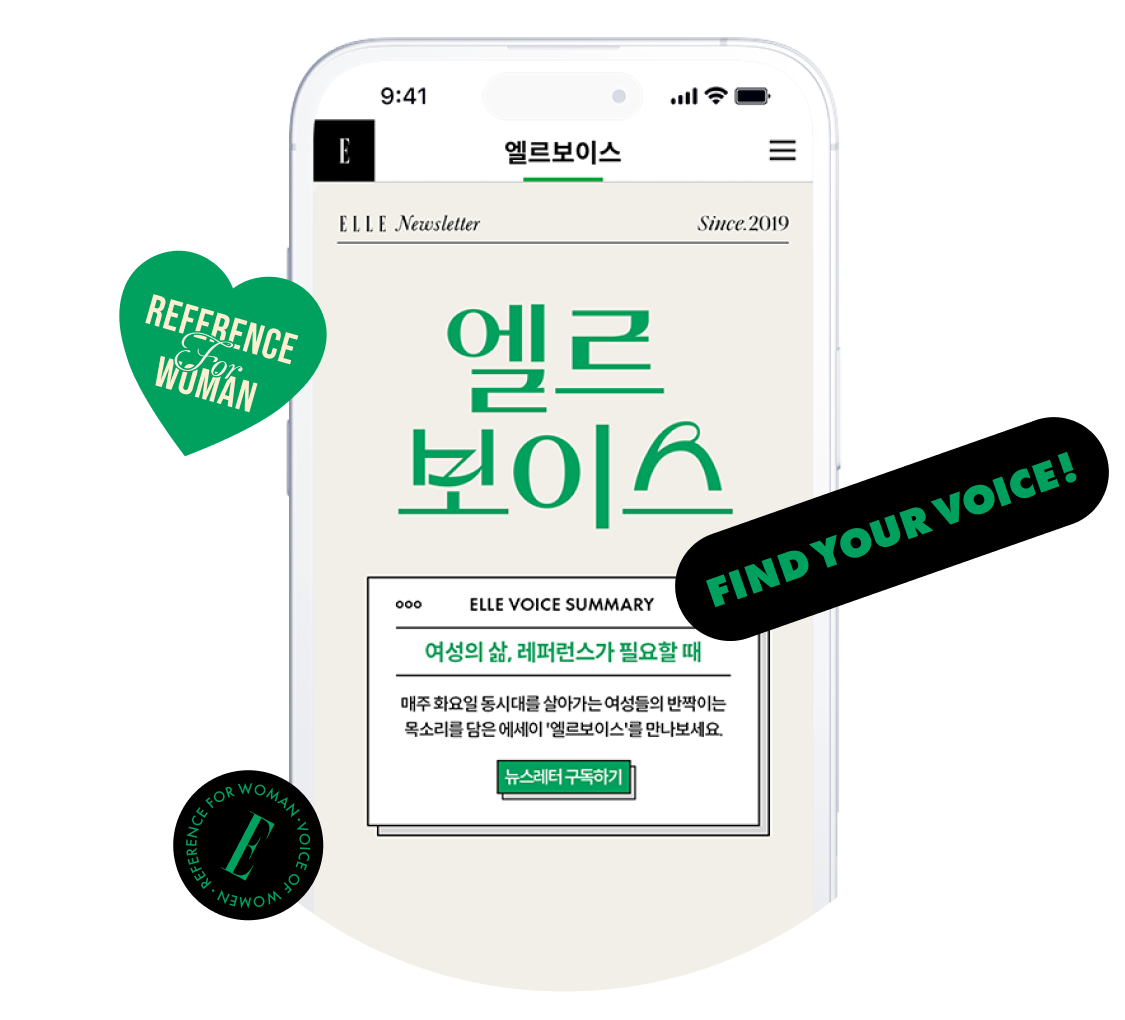
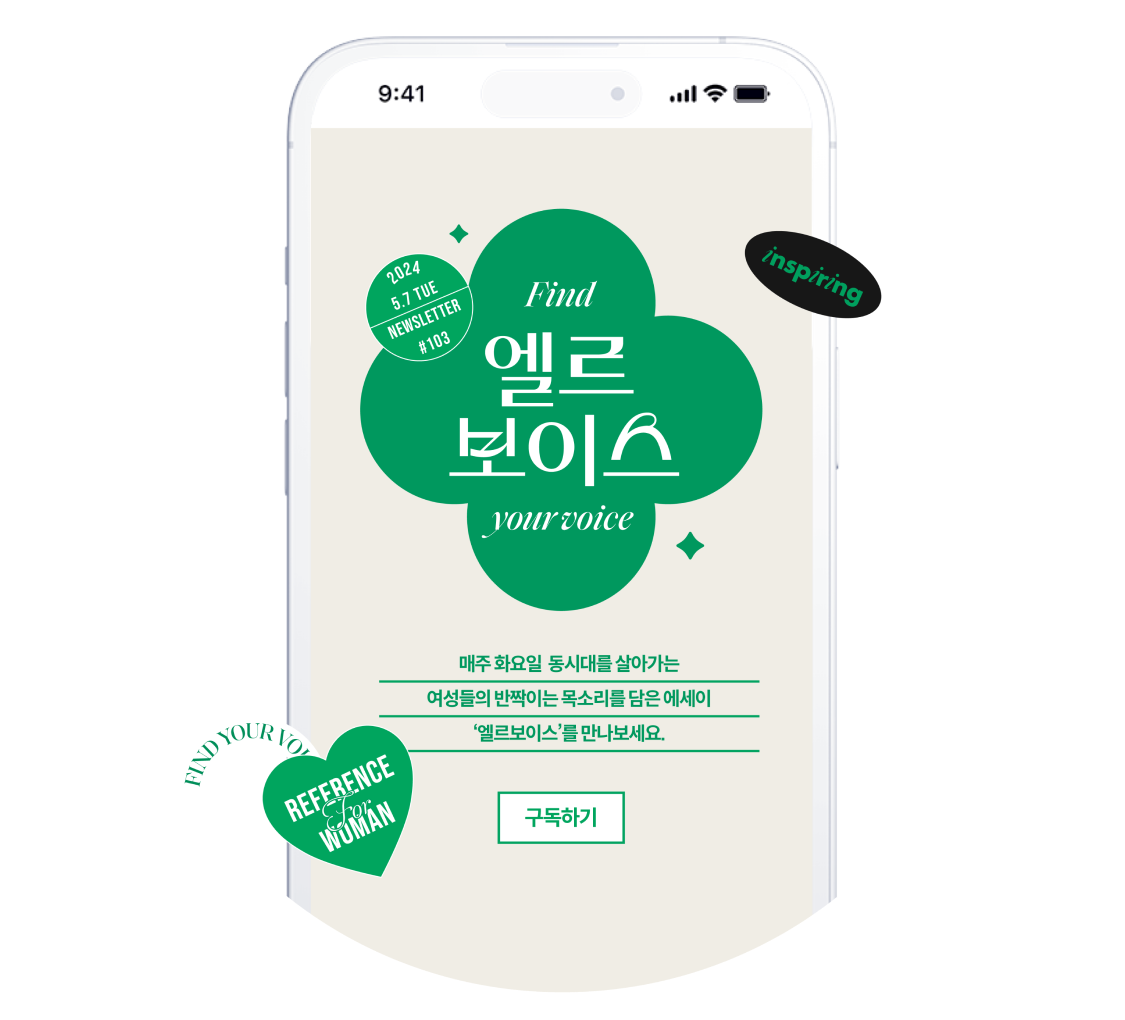
통합멤버십 > 관심카테고리 추가, 추천인필드추가, 엘르보이스 이미지변경, 포인트 안내 추가,

Changed region(s): [[0.0933, 0.0304, 0.9956, 0.9118]]

diff --git a/membership/html/popup.html b/membership/html/popup.html
@@ -180,6 +180,7 @@
                         <!-- <button type="button" data-popup-open="popup_11"><span>통합로그인 >  iframe</span></button><br>-->
                         <button type="button" data-popup-open="popup_8"><span>회원가입 불가</span></button><br>
                         <button type="button" data-popup-open="popup_12"><span>통합로그인</span></button><br>
+                        <button type="button" data-popup-open="popup_17"><span>관심 카테고리 선택</span></button><br><!-- 2024-05-16 추가 -->
 						<button type="button" data-alert-open="alert_1"><span>얼럿1_개인정보수정</span></button><br>
 						<button type="button" data-alert-open="alert_2"><span>얼럿2_개인정보수정 완료</span></button><br>
                         <button type="button" data-alert-open="alert_3"><span>얼럿3_쿠폰재발송</span></button><br>
@@ -195,6 +196,7 @@
                         <button type="button" data-alert-open="login_al1"><span>얼럿1_로그인실패</span></button><br>
                         <button type="button" data-alert-open="login_al2"><span>얼럿2_로그인실패_비밀번호재설정</span></button><br>
                         <!--E: 2023-12-28 : 로그인 실패 팝업 추가 -->
+                        <button type="button" data-alert-open="alert_13"><span>얼럿13_관심카테고리</span></button><br><!-- 2024-05-16 추가 -->
 					</div>
                 </div>
             </div>
@@ -1545,6 +1547,116 @@
     </div>
     <!--E: 2023-12-28 : 로그인 실패 팝업 추가 --> 
 
+    <!-- 관심카테고리 alter 2024-05-16 추가 -->
+    <div class="popup_alert" data-alert="alert_13">
+        <div class="popup_alert_inner">
+            <div class="popup_alert_cont">
+                <p class="alert_txt">
+                    카테고리 저장 완료!
+                </p>
+                <p class="alert_subtxt type02">
+                    카테고리 저장이 완료되었습니다.<br>관심 카테고리는 <strong>[마이페이지 > 회원정보 수정]</strong><br>페이지에서 수정하실 수 있습니다.
+                </p>
+            </div>
+            <div class="popup_alert_bottom">
+                <div class="btn_wrap">
+                    <button type="button" class="btn bctype1"><span>확인</span></button>
+                </div>
+            </div>
+            <div class="popup_close">
+                <button type="button" class="btn_close" data-alert-close="alert_13"><span class="blind">닫기</span></button>
+            </div>
+        </div>
+    </div>
+    <!-- // 관심카테고리 alter --> 
+
+    <!-- 관심 카테고리 선택 팝업 2024-05-16 추가-->
+    <div class="popup_full" data-popup="popup_17">
+        <div class="popup_inner">
+            <div class="popup_head">
+                <h2 class="tit">관심 카테고리 선택</h2>
+                <div class="popup_close">
+                    <button type="button" class="btn_close" data-popup-close="popup_17"><span
+                            class="blind">닫기</span></button>
+                </div>
+            </div>
+            <div class="popup_cont int">
+                <div class="pop_tit_wrap">
+                    <p>관심 있는 카테고리를 선택하시면 연관 콘텐츠를 알아서 추천해드려요!</p>
+                </div>
+                <ul class="int_list">
+                    <li>
+                        <span class="cate">
+                            <input type="checkbox" id="int01" name="int" checked>
+                            <label for="int01">패션</label>
+                        </span>
+                    </li>
+                    <li>
+                        <span class="cate">
+                            <input type="checkbox" id="int02" name="int"ㄴ>
+                            <label for="int02">뷰티</label>
+                        </span>
+                    </li>
+                    <li>
+                        <span class="cate">
+                            <input type="checkbox" id="int03" name="int">
+                            <label for="int03">셀럽</label>
+                        </span>
+                    </li>
+                    <li>
+                        <span class="cate">
+                            <input type="checkbox" id="int04" name="int">
+                            <label for="int04">엔터테인먼트</label>
+                        </span>
+                    </li>
+                    <li>
+                        <span class="cate">
+                            <input type="checkbox" id="int05" name="int">
+                            <label for="int05">여행&amp;음식</label>
+                        </span>
+                    </li>
+                    <li>
+                        <span class="cate">
+                            <input type="checkbox" id="int06" name="int">
+                            <label for="int06">테크</label>
+                        </span>
+                    </li>
+                    <li>
+                        <span class="cate">
+                            <input type="checkbox" id="int07" name="int">
+                            <label for="int07">커리어</label>
+                        </span>
+                    </li>
+                    <li>
+                        <span class="cate">
+                            <input type="checkbox" id="int08" name="int">
+                            <label for="int08">사회&amp;정책</label>
+                        </span>
+                    </li>
+                    <li>
+                        <span class="cate">
+                            <input type="checkbox" id="int09" name="int">
+                            <label for="int09">아트&amp;디자인</label>
+                        </span>
+                    </li>
+                    <li>
+                        <span class="cate">
+                            <input type="checkbox" id="int10" name="int">
+                            <label for="int10">릴레이션십&amp;연애</label>
+                        </span>
+                    </li>
+                </ul>
+      
+            </div>
+            <div class="popup_bottom">
+                <div class="btn_wrap">
+                    <button type="button" class="btn bctype2"><span>건너뛰기</span></button>
+                    <button type="button" class="btn bctype1"><span>저장하기</span></button>
+                </div>
+            </div>
+        </div>
+    </div>
+    <!--// 관심 카테고리 선택 팝업-->
 
 	<!-- js -->
 	<script src="../resources/js/swiper.min.js"></script>

diff --git a/membership/html/membership/point.html b/membership/html/membership/point.html
@@ -348,6 +348,28 @@
 											</div>
 										</div>
 									</li>
+									<!-- HEASRT Joongang2 2024-05-16 추가-->
+									<li>
+										<div class="point_card hearst">
+											<div class="card_header">
+												<div class="logo">
+													<object data="../../resources/images/about_hearst_logo.svg" name="HEASRT Joongang"></object>
+												</div>
+											</div>
+											<div class="card_body">
+												<dl>
+													<dt>추천인 입력하고 회원가입하시면 신규 가입자와 추천인 모두에게 각</dt>
+													<dd>
+														<div class="c_point">500<span>P</span></div>
+														<div class="c_state">즉시 지급</div>
+													</dd>
+												</dl>
+											</div>
+											<div class="card_btm">
+												<a href="#" class="btn_txt has_plus"><span>허스트중앙 통합멤버십 가입하기</span></a>
+											</div>
+										</div>
+									</li>
 									<!--ELLE-->
 									<li>
 										<div class="point_card elle">
@@ -499,6 +521,72 @@
 											</div>
 											<div class="card_btm">
 												<span class="txt">매체별 이벤트를 확인해 주세요</span>
+											</div>
+										</div>
+									</li>
+									<!-- 엘르보이스 에세이 2024-05-16 추가-->
+									<li>
+										<div class="point_card ellevoice">
+											<div class="card_header">
+												<div class="logo">
+													<object data="../../resources/images/about_ellevoice_logo.svg" name="HEASRT Joongang"></object>
+												</div>
+											</div>
+											<div class="card_body">
+												<dl>
+													<dt>엘르보이스 에세이를 보시면 1일 최대</dt>
+													<dd>
+														<div class="c_point">3<span>P</span></div>
+														<div class="c_state">에세이당 1P 지급</div>
+													</dd>
+												</dl>
+											</div>
+											<div class="card_btm">
+												<a href="#" class="btn_txt has_plus"><span>엘르보이스 에세이 보러가기</span></a>
+											</div>
+										</div>
+									</li>
+									<!-- 엘르보이스 찜 2024-05-16 추가-->
+									<li>
+										<div class="point_card ellevoice">
+											<div class="card_header">
+												<div class="logo">
+													<object data="../../resources/images/about_ellevoice_logo.svg" name="HEASRT Joongang"></object>
+												</div>
+											</div>
+											<div class="card_body">
+												<dl>
+													<dt>엘르보이스 에세이와 작가를 찜 하시면 최대</dt>
+													<dd>
+														<div class="c_point">100<span>P</span></div>
+														<div class="c_state">각 50P 지급 (최초 1회)</div>
+													</dd>
+												</dl>
+											</div>
+											<div class="card_btm">
+												<a href="#" class="btn_txt has_plus"><span>엘르보이스 작가 보러가기</span></a>
+											</div>
+										</div>
+									</li>
+									<!-- 예술산책 2024-05-16 추가-->
+									<li>
+										<div class="point_card artwalk">
+											<div class="card_header">
+												<div class="logo">
+													<object data="../../resources/images/about_artwalk_logo.svg" name="예술산책"></object>
+												</div>
+											</div>
+											<div class="card_body">
+												<dl>
+													<dt>예술산책 산책메이트 신청하시면</dt>
+													<dd>
+														<div class="c_point">100<span>P</span></div>
+														<div class="c_state">즉시 지급 (최초 1회)</div>
+													</dd>
+												</dl>
+											</div>
+											<div class="card_btm">
+												<a href="#" class="btn_txt has_plus"><span>산책메이트 신청하러 가기</span></a>
 											</div>
 										</div>
 									</li>

diff --git a/membership/html/mypage/myinfo_modify.html b/membership/html/mypage/myinfo_modify.html
@@ -423,6 +423,35 @@
             </div>
             <p class="col_txt">* 취향 맞춤 뉴스레터 / 알림 서비스를 신청하시면, 서비스와 관련된 새로운 소식, 이벤트 안내, 혜택 등 다양한 정보를 빠르게 제공해드려요!</p>
           </div>
+          <!--D: 관심 카테고리 선택 2024-05-16 추가-->
+          <div class="body_cont01 bc_space01 interest">
+            <div class="tit_wrap02">
+              <h3 class="stit">관심 카테고리 선택</h3>
+            </div>
+            <div class="input_chk_type">
+              <div class="chk_all">
+                <span class="chk_in">
+                  <input type="checkbox" id="checkAll03" name="interest">
+                  <label for="checkAll03"><span>전체</span></label>
+                </span>
+              </div>
+              <ul class="chk_list">
+                <li><span class="chk_in"><input type="checkbox" id="check8" name="interest"><label for="check8"><span>패션</span></label></span></li>
+                <li><span class="chk_in"><input type="checkbox" id="check9" name="interest"><label for="check9"><span>뷰티</span></label></span></li>
+                <li><span class="chk_in"><input type="checkbox" id="check10" name="interest"><label for="check10"><span>셀럽</span></label></span></li>
+                <li><span class="chk_in"><input type="checkbox" id="check11" name="interest"><label for="check11"><span>엔터테인먼트</span></label></span></li>
+                <li><span class="chk_in"><input type="checkbox" id="check12" name="interest"><label for="check12"><span>여행&음식</span></label></span></li>
+                <li><span class="chk_in"><input type="checkbox" id="check13" name="interest"><label for="check13"><span>테크</span></label></span></li>
+                <li><span class="chk_in"><input type="checkbox" id="check14" name="interest"><label for="check14"><span>커리어</span></label></span></li>
+                <li><span class="chk_in"><input type="checkbox" id="check15" name="interest"><label for="check15"><span>사회&정책</span></label></span></li>
+                <li><span class="chk_in"><input type="checkbox" id="check16" name="interest"><label for="check16"><span>아트&디자인</span></label></span></li>
+                <li><span class="chk_in"><input type="checkbox" id="check17" name="interest"><label for="check17"><span>릴레이션십&연애</span></label></span></li>
+              </ul>
+            </div>
+            <p class="col_txt">*  관심 카테고리를 선택하시면, 연관 콘텐츠를 알아서 추천해 드려요!</p>
+          </div>
+          <!-- // D: 관심 카테고리 선택 -->
+          
           <div class="tbl_btm_area">
             <button type="button" class="btn_txt03"><span>회원탈퇴하기</span></button>
             <div class="btn_area btm_only">
@@ -478,8 +507,8 @@
 
   <script>
     $(document).ready(function () {
-      // "전체 선택" 체크 박스가 클릭되었을 때 호출되는 함수
-      $("#checkAll, #checkAll02").on("click", function () {
+      // "전체 선택" 체크 박스가 클릭되었을 때 호출되는 함수 2024-05-16 #checkAll03추가
+      $("#checkAll, #checkAll02, #checkAll03").on("click", function () {
         toggleAllSubCheckboxes(this.name, this.checked);
       });
 

diff --git a/membership/resources/css/common.css b/membership/resources/css/common.css
@@ -588,6 +588,16 @@ input[type="search"]::-webkit-search-results-decoration{display:none;}
 .popup_cont .gray_box + .input_type01  { margin-top:32px}
 .popup_cont .gray_box + .btn_wrap{margin-top:32px;}
 
+/*2024-05-16 관심카테고리 팝업 추가*/
+.popup_cont.int {min-height:381px;}
+.popup_cont.int .pop_tit_wrap {text-align:left;margin-bottom:40px;}
+.popup_cont .int_list {display:flex;gap:16px 12px;flex-wrap:wrap;}
+.popup_cont .int_list > li {}
+.popup_cont .int_list .cate {overflow: hidden;}
+.popup_cont .int_list .cate input {position:absolute;left:-9999px;width:0;height:0;}
+.popup_cont .int_list .cate input + label {display:flex;justify-content:center;align-items:center;height:44px;padding:0 16px;border:1px solid #ccc;font-size:14px;font-weight:400;border-radius:24px;cursor:pointer;color:#111;}
+.popup_cont .int_list .cate input:checked + label {border-color:var(--point);background-color:var(--point);color:#fff;font-weight:500;}
+
 /* alert */
 .popup_alert{display:none;position:fixed;left:0;top:0;width:100%;height:100%;z-index:220}
 .popup_alert.open{display:block;}
@@ -599,7 +609,9 @@ background:#fff;overflow:hidden;z-index:230}
 .popup_alert_cont .alert_txt span { display:block}
 .popup_alert_cont .alert_txt span em {color:var(--point)}
 .popup_alert_cont .alert_subtxt{margin-bottom:-16px;font-size:12px;font-weight:400;line-height:17px;}
-.popup_alert_cont .alert_num +.alert_subtxt{margin-top:24px;}
+.popup_alert_cont .alert_subtxt.type02 {margin-bottom:8px;}/*2024-05-16 추가*/
+.popup_alert_cont .alert_txt + .alert_subtxt.type02 {padding-top:3px;}/*2024-05-16 추가*/
+.popup_alert_cont .alert_num + .alert_subtxt{margin-top:24px;}
 .popup_alert_cont .alert_num{font-size:12px;font-weight:400;line-height:17px;}
 .popup_alert_cont .alert_num span{color:#FF0000;}
 .popup_alert_bottom{padding:16px 28px 28px;}
@@ -750,6 +762,7 @@ body.is_pc .wrap.main-page .allmenu_wrap {position:fixed}
 .chk_list li { position:relative; white-space:nowrap; margin-bottom:21px; line-height:1; }
 .chk_list li .chk_in { vertical-align:middle; color:#111}
 .chk_list li .btn_ico { vertical-align:middle; position: relative; top:1px;}
+.body_cont01.interest .chk_list {max-width:1010px;} /*2024-05-16 추가*/
 
 .tooltip_layer {position:absolute; top:27px; left: -7px; display: none; padding:0; opacity:0; z-index: -1; max-width: calc(100vw - 40px); }
 .tooltip_layer.is-visible {display: flex; width: auto; height: auto; opacity:1; z-index:201; }
@@ -960,6 +973,7 @@ body.is_pc .wrap.main-page .allmenu_wrap {position:fixed}
 	.popup_alert_inner{width:calc(100% - 40px);max-width:335px;}
 	.popup_alert_cont{padding:60px 24px 16px;font-size:16px;line-height:23px;}
 	.popup_alert_cont .alert_txt{min-height:46px;font-size:16px;line-height:23px;}
+	.popup_alert_cont .alert_subtxt.type02 {margin-bottom:-16px;}/*2024-05-16 추가*/
 	.popup_alert_bottom{padding:16px 24px 24px;}
 
 	/*.popup_cont .gray_box .box_inner .txt {padding:32px 50px;}*/

diff --git a/membership/resources/css/membership.css b/membership/resources/css/membership.css
@@ -67,6 +67,8 @@ body.is_mobile .top_visual img.pc {display:none}
 .point_card.bazaar .logo {width:124.06px; height:32.32px}
 .point_card.esquire .logo {width:125px; height:26px}
 .point_card.eee .logo {width:93px; height:28px}
+.point_card.ellevoice .logo {width:164px; height:32px}/*2024-05-16 추가*/
+.point_card.artwalk .logo {width:132px; height:30px}/*2024-05-16 추가*/
 .point_card .card_body { padding-top:40px; margin:0 40px; height:209px }
 .point_card .card_body dl dt { font-size:18px; font-weight:500; line-height:1.4}
 .point_card .card_body dl dd { display:flex; flex-direction:row;align-items: center; justify-content: space-between; margin-top:24px;  }
@@ -124,6 +126,8 @@ body.is_mobile .top_visual img.pc {display:none}
     .point_card.bazaar .logo object {width:66.85%}
     .point_card.esquire .logo object {width:91.2%}
     .point_card.eee .logo object {width:67.74%}
+    .point_card.ellevoice .logo object {width:70%}/*2024-05-16 추가*/
+    .point_card.artwalk .logo object {width:70%;}/*2024-05-16 추가*/
     .point_card .card_body { padding-top:20px; margin:0 20px}
     .point_card .card_body dl dt { font-size:14px}
     .point_card .card_body dl dd .c_point { font-size:32px}

diff --git a/membership/html/etc/privacy.html b/membership/html/etc/privacy.html
@@ -384,6 +384,18 @@
 													<td>CI, 허스트중앙 포인트 잔액 및 교환 포인트 내역</td>
 													<td>회원탈퇴 또는 제휴서비스 해지 시</td>
 												</tr>
+												<tr>
+													<td>CJ올리브네트웍스(주)</td>
+													<td>포인트 교환</td>
+													<td>CI, 허스트중앙 포인트 잔액 및 교환 포인트 내역</td>
+													<td>회원탈퇴 또는 제휴서비스 해지 시</td>
+												</tr>
+												<tr>
+													<td>엔에이치엔 페이코(주)</td>
+													<td>포인트 교환</td>
+													<td>CI, 허스트중앙 포인트 잔액 및 교환 포인트 내역</td>
+													<td>회원탈퇴 또는 제휴서비스 해지 시</td>
+												</tr>
 											</tbody>
 										</table>
 									</div>

diff --git a/membership/html/member/regist_step03.html b/membership/html/member/regist_step03.html
@@ -219,6 +219,16 @@
 									<p class="row_err_txt">비밀번호가 일치하지 않습니다. 다시 입력해 주세요.</p>
 								</div>
 							</dd>
+							<!-- 추천인 아이디 2024-05-16 추가 -->
+							<dt>추천인 아이디</dt>
+							<dd>
+								<div class="inputbox">
+									<input type="text" class="inp" placeholder="추천인 아이디 입력" />
+									<button type="button" class="btn_ico del"><span class="blind">삭제</span></button>
+									<p class="row_err_txt"></p>
+								</div>
+							</dd>
+							<!-- // 추천인 아이디 -->
 						</dl>
 						<div class="btn_area">
 							<button type="button" class="btn bctype1"><span>SIGN UP</span></button>

diff --git a/membership/resources/css/main.css b/membership/resources/css/main.css
@@ -59,7 +59,7 @@
 
 .mm .media.m1 .m-t1 {font-family:Montserrat;color: #111;}/* 2024-03-19 폰트 수정 */
 .mm .media.m1 .m-t2 {color: #666;}
-.mm .media.m2 {background-color: #EF88AB;}
+.mm .media.m2 {background-color: #FF1493;}/* 2024-05-16 수정 */
 .mm .media.m2 .m-t1 {font-family:Montserrat;}/* 2024-03-19 폰트 수정 */
 .mm .media.m3 {background-color: #111;}
 .mm .media.m3 .m-t1 {font-family:Montserrat;}/* 2024-03-19 폰트 수정 */
